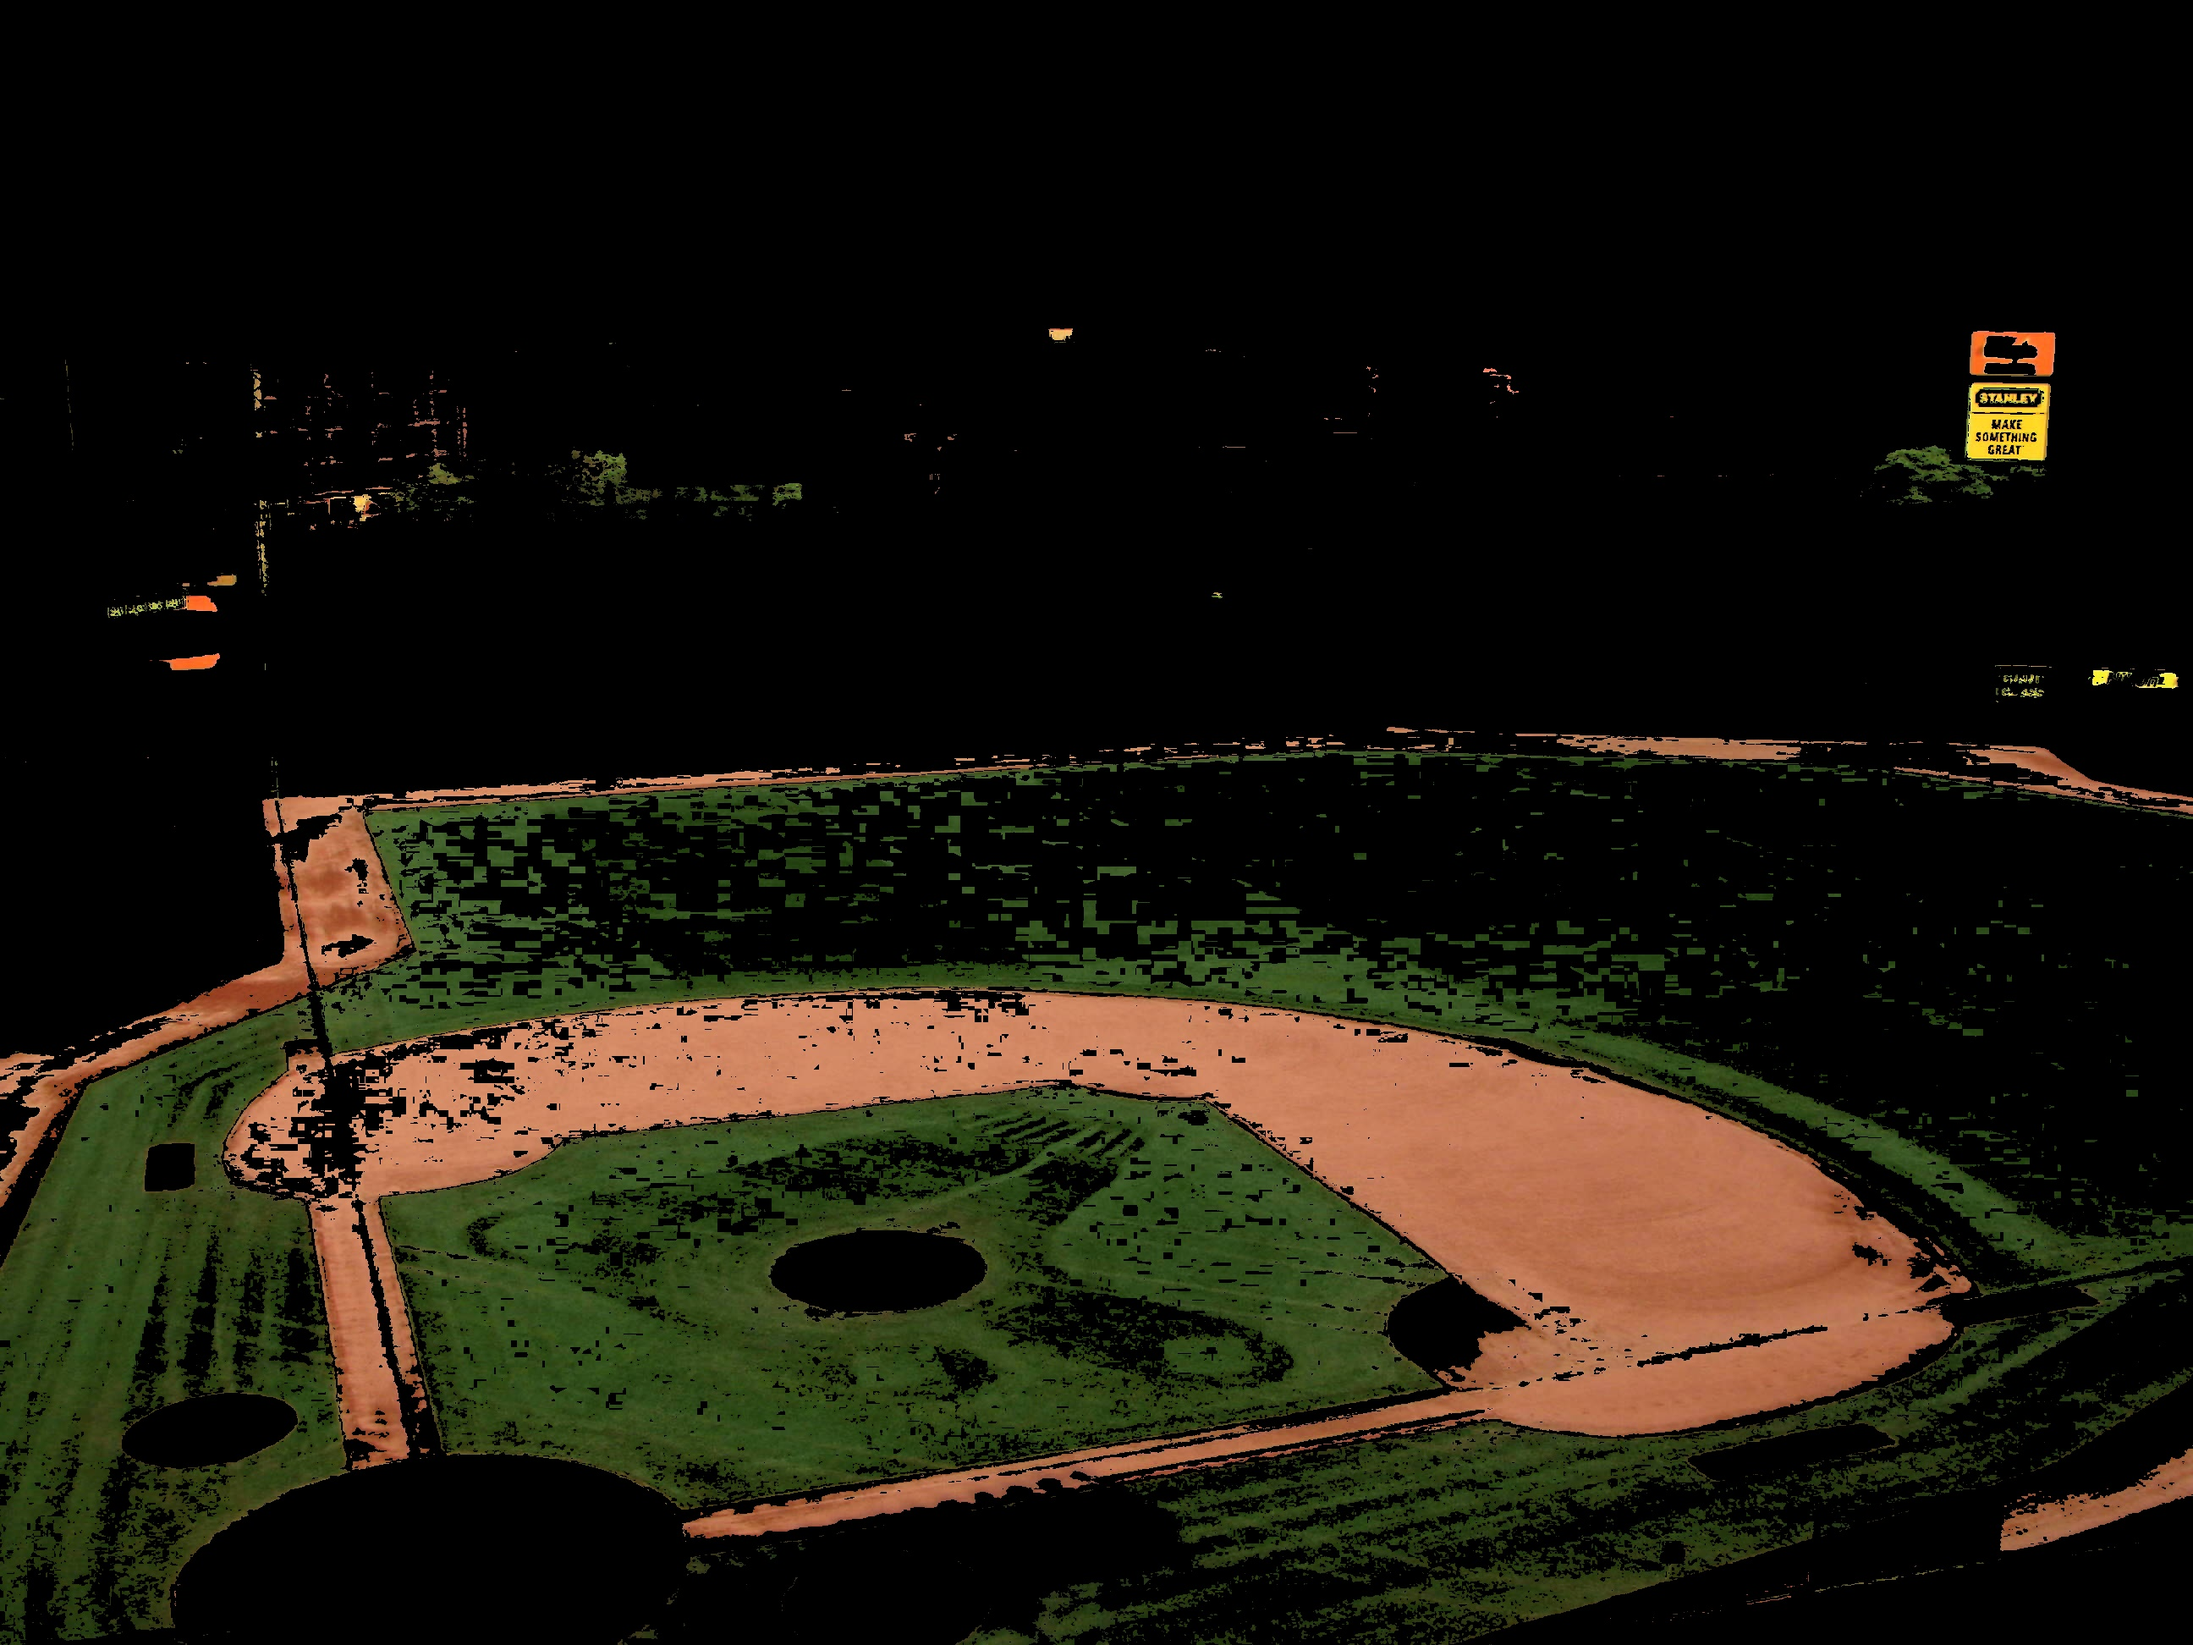
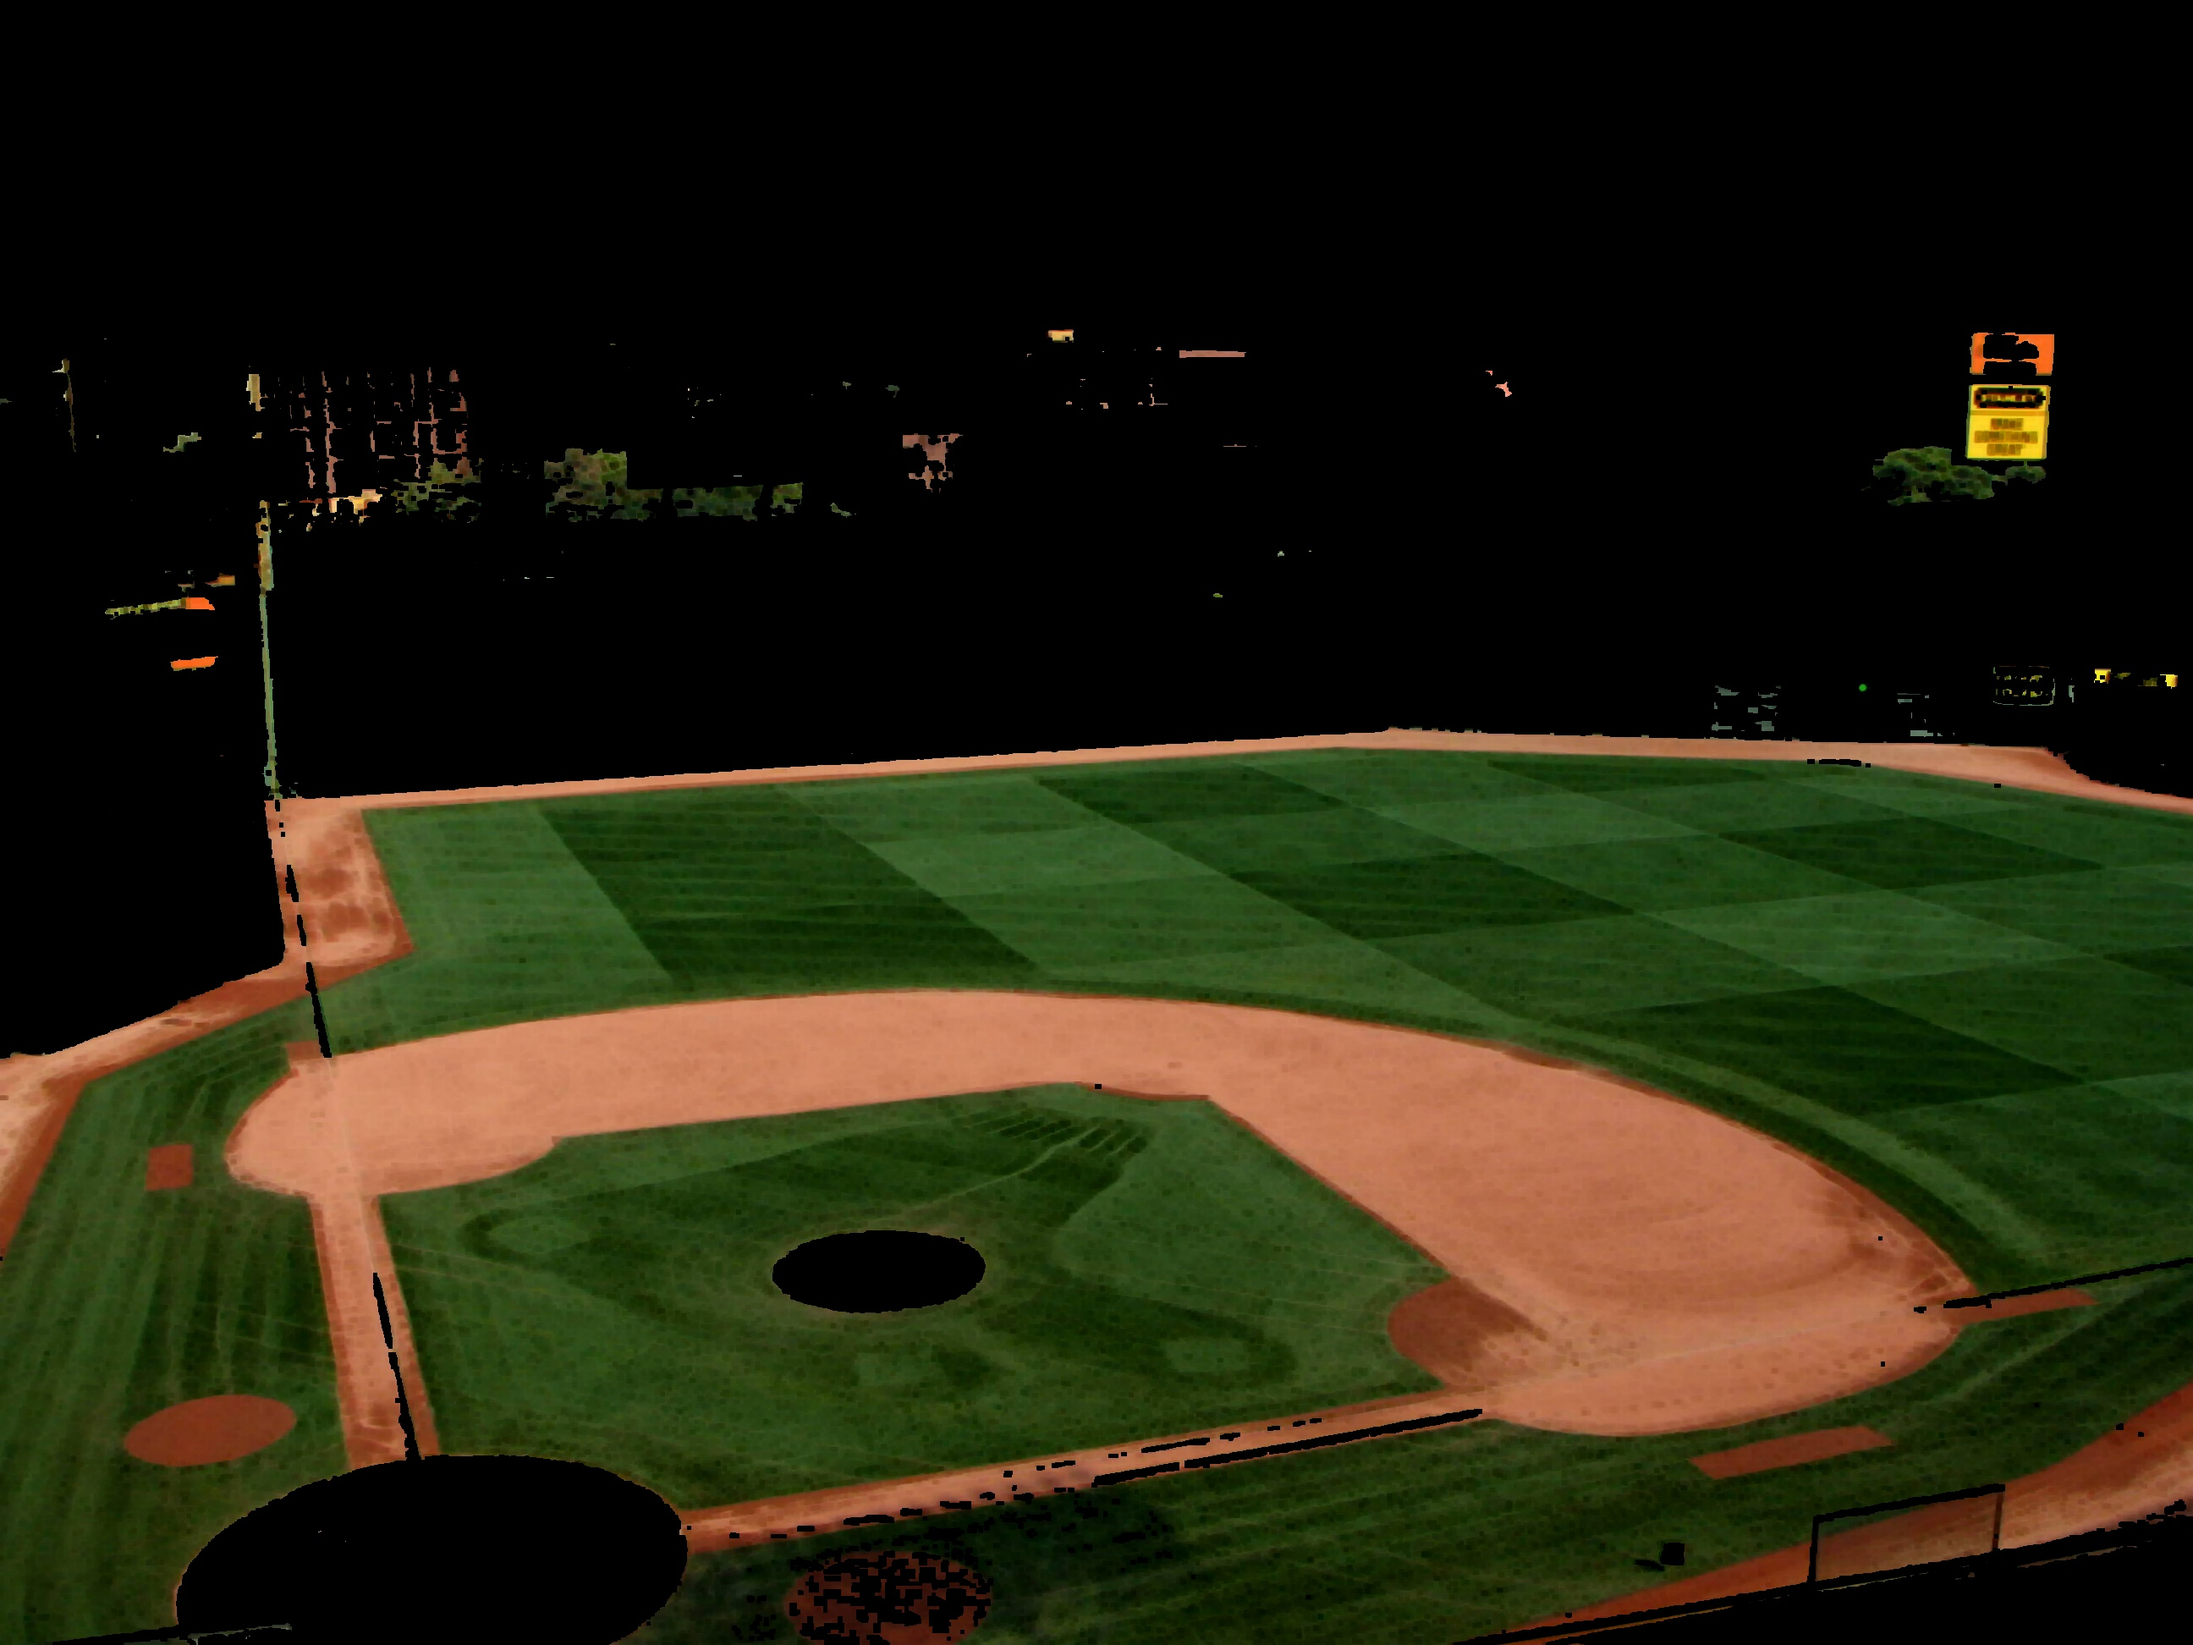
update thresholding values and blur -- threshold need work for shadow in image2.jpg

diff --git a/TestPersonDetection/personDetectionTesting.py b/TestPersonDetection/personDetectionTesting.py
@@ -6,12 +6,11 @@ import numpy
 
 class PlayerFinder(object):
     def __init__(self):
-        # individual properties
-        self.lower_green = numpy.array((21, 126, 49), dtype=numpy.uint8)
-        self.upper_green = numpy.array((48, 208, 215), dtype=numpy.uint8)
+        self.lower_green = numpy.array((21, 45, 15), dtype=numpy.uint8)
+        self.upper_green = numpy.array((72, 255, 242), dtype=numpy.uint8)
 
-        self.lower_brown = numpy.array((5, 130, 146), dtype=numpy.uint8)
-        self.upper_brown = numpy.array((30, 235, 255), dtype=numpy.uint8)
+        self.lower_brown = numpy.array((5, 95, 25), dtype=numpy.uint8)
+        self.upper_brown = numpy.array((30, 255, 255), dtype=numpy.uint8)
 
         # pixel area of the bounding rectangle - just used to remove stupidly small regions
         self.contour_min_area = 100
@@ -52,14 +51,14 @@ class PlayerFinder(object):
         
         target = cv2.bitwise_and(image,image, mask=mask)
 
-        return target
-
-        """
         #Defining a kernel to do morphological operation in threshold image to 
         #get better output.
-        #kernel = numpy.ones((10,10), numpy.uint8)
-        #erosion = cv2.erode(res_gray, kernel, iterations = 1)
+        kernel = numpy.ones((5,5), numpy.uint8)
+        erosion = cv2.erode(target, kernel, iterations = 1)
 
+
+        return erosion
+        """
          #find contours in threshold image     
         _, self.contours, _ = cv2.findContours(res_gray, cv2.RETR_TREE, cv2.CHAIN_APPROX_SIMPLE)
         print(len(self.contours))

diff --git a/TestPersonDetection/thresholdpicker.py b/TestPersonDetection/thresholdpicker.py
@@ -65,7 +65,7 @@ def process_files(image_files):
             _, contours, _ = cv2.findContours(mask, cv2.RETR_EXTERNAL, cv2.CHAIN_APPROX_SIMPLE)
 
             numpy.copyto(draw_frame, bgr_frame)
-            cv2.drawContours(draw_frame, contours, -1, (0, 0, 255), 2)
+            cv2.drawContours(draw_frame, contours, -1, (255, 255, 0), 1)
             run = False
 
         height, width, channels = bgr_frame.shape
